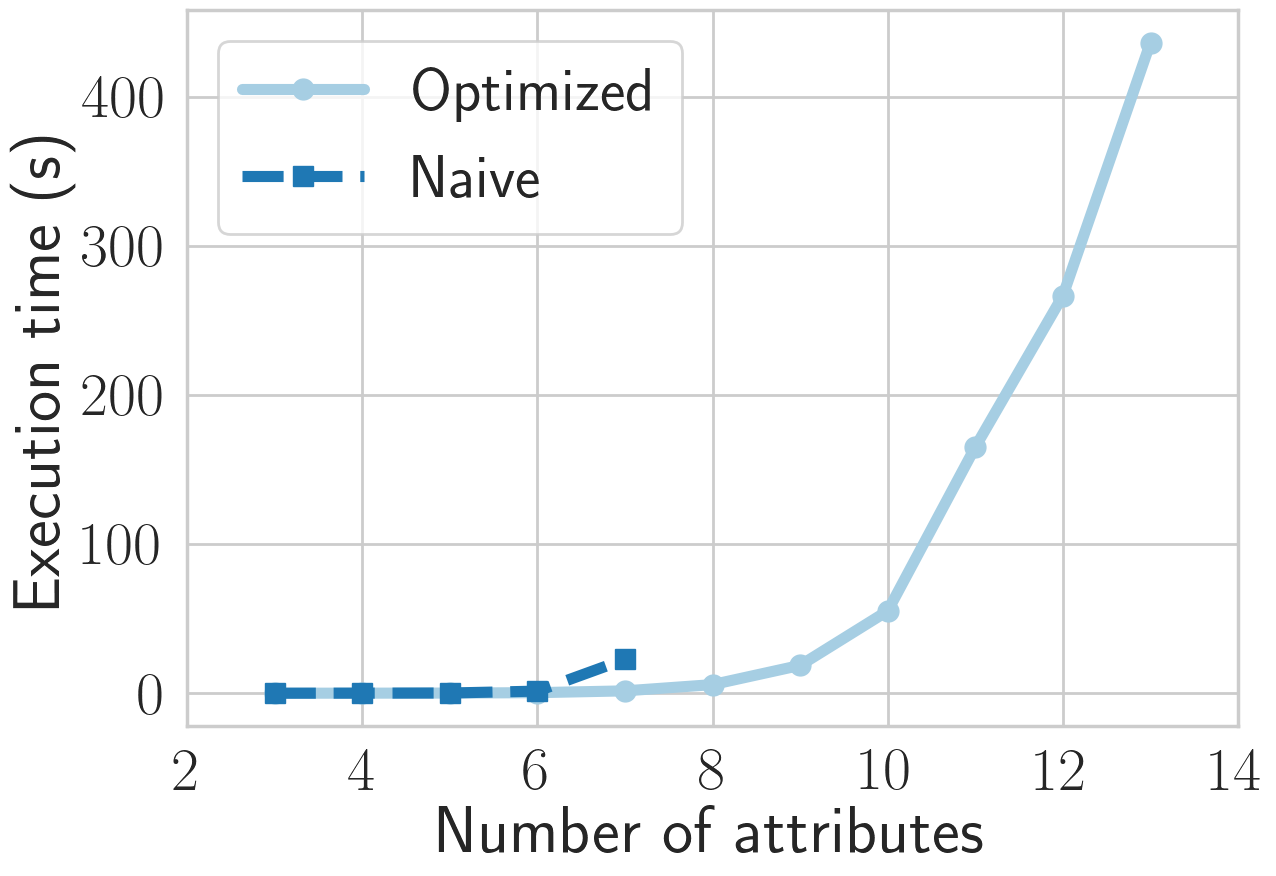
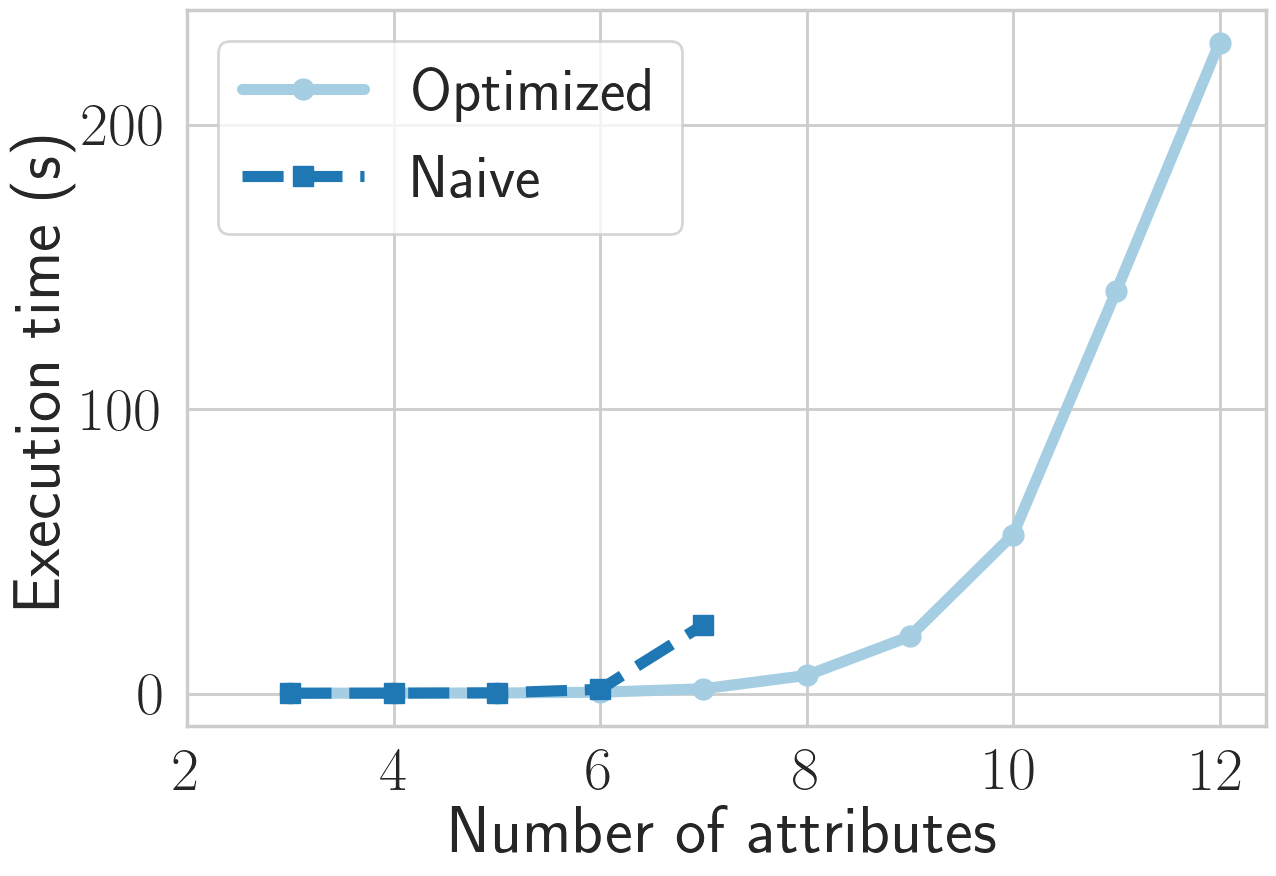
general, credit card data, num att

diff --git a/Coding/Experiments/General_FP/CreditcardData/num_attributes_4_20211211.py b/Coding/Experiments/General_FP/CreditcardData/num_attributes_4_20211211.py
@@ -147,10 +147,10 @@ time_limit = 10*60
 
 # with 7 att, naive alg needs 40 s
 # with 8 att, naive alg time out (over 10min)
-# with 14 att, new alg over time > 10min
+# with 13 att, new alg over time > 10min
 num_att_max_naive = 8
 num_att_min = 3
-num_att_max = 14
+num_att_max = 13
 execution_time1 = list()
 execution_time2 = list()
 num_calculation1 = list()
@@ -213,7 +213,7 @@ for number_attributes in range(num_att_max_naive, num_att_max):
 
 
 
-output_path = r'../../../../OutputData/General_withStopCond/CreditcardDataset/num_attribute_14att.txt'
+output_path = r'../../../../OutputData/General_withStopCond/CreditcardDataset/num_attribute.txt'
 output_file = open(output_path, "w")
 num_lines = len(execution_time1)
 
@@ -223,20 +223,20 @@ output_file.write("execution time\n")
 for n in range(num_att_min, num_att_max_naive):
     output_file.write('{} {} {}\n'.format(n, execution_time1[n-num_att_min], execution_time2[n-num_att_min]))
 for n in range(num_att_max_naive, num_att_max):
-    output_file.write('{} {}\n'.format(n, execution_time1[n - num_att_max_naive]))
+    output_file.write('{} {}\n'.format(n, execution_time1[n - num_att_min]))
 
 
 output_file.write("\n\nnumber of patterns checked\n")
 for n in range(num_att_min, num_att_max_naive):
     output_file.write('{} {} {}\n'.format(n, num_calculation1[n-num_att_min], num_calculation2[n-num_att_min]))
 for n in range(num_att_max_naive, num_att_max):
-    output_file.write('{} {}\n'.format(n, num_calculation1[n-num_att_max_naive]))
+    output_file.write('{} {}\n'.format(n, num_calculation1[n-num_att_min]))
 
 
 
 output_file.write("\n\nnumber of patterns found\n")
-for n in range(num_att_min, num_att_max_naive):
-    output_file.write('{} {} \n {}\n'.format(n, num_patterns_found[n], patterns_found[n]))
+for n in range(num_att_min, num_att_max):
+    output_file.write('{} {} \n {}\n'.format(n, num_patterns_found[n-num_att_min], patterns_found[n-num_att_min]))
 
 
 
@@ -257,7 +257,7 @@ plt.plot(x_naive, execution_time2 , line_style[1], color=color[1], label=label[1
           markersize=marker_size)
 plt.xlabel('Number of attributes')
 plt.ylabel('Execution time (s)')
-plt.xticks([2, 4, 6, 8, 10, 12, 14])
+plt.xticks([2, 4, 6, 8, 10, 12])
 plt.legend(loc='best')
 plt.grid(True)
 fig.tight_layout()
@@ -277,7 +277,7 @@ plt.plot(x_naive, num_calculation2, line_style[1], color=color[1], label=label[1
 plt.xlabel('Number of attributes')
 plt.ylabel('Number of patterns visited (K)')
 ax.yaxis.set_major_formatter(FuncFormatter(thousands_formatter))
-plt.xticks([2, 4, 6, 8, 10, 12, 14])
+plt.xticks([2, 4, 6, 8, 10, 12])
 plt.legend(loc='best')
 plt.grid(True)
 fig.tight_layout()
